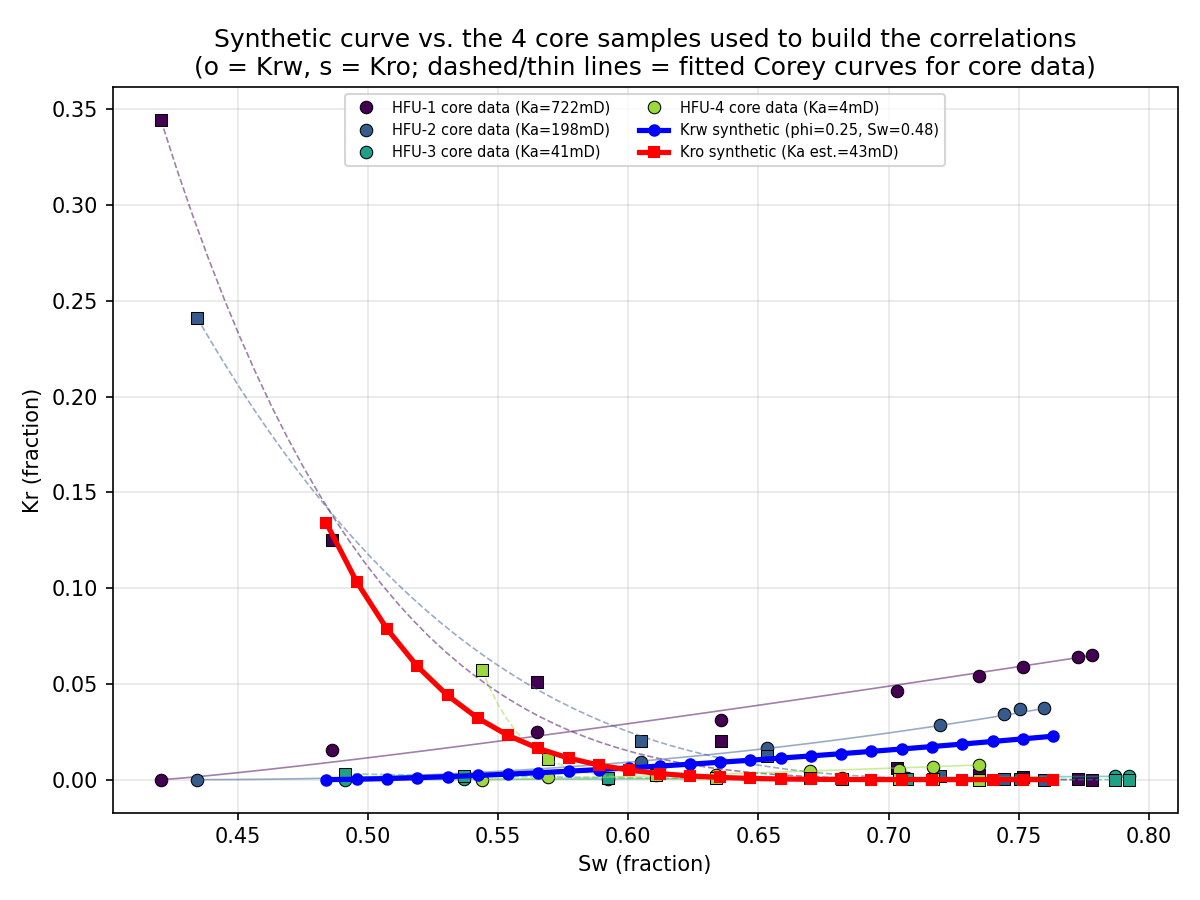
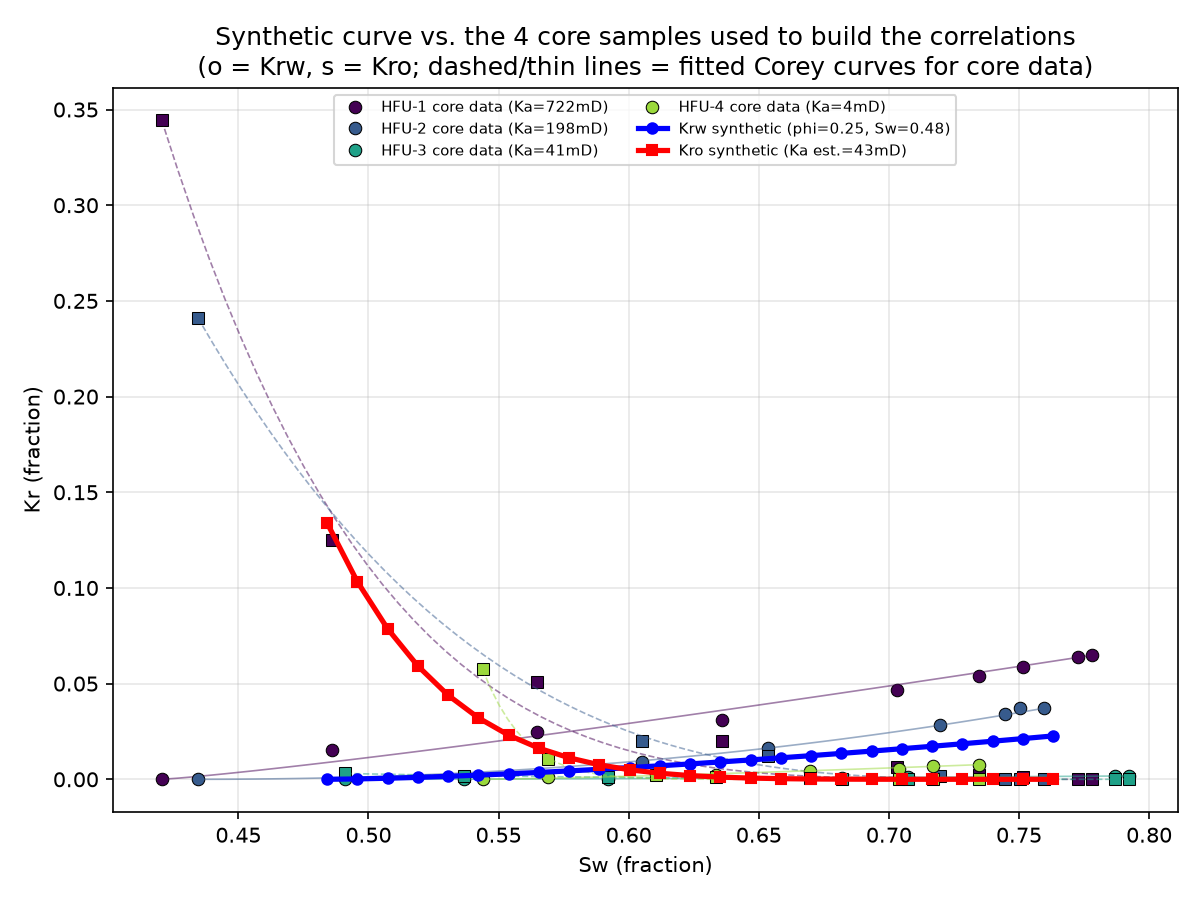
Changing input

diff --git a/src/synthetic_relperm_simple.py b/src/synthetic_relperm_simple.py
@@ -24,6 +24,7 @@ Method:
 No uncertainty bands - single deterministic curve, as requested.
 """
 
+import argparse
 import numpy as np
 from scipy.optimize import curve_fit
 import matplotlib.pyplot as plt
@@ -118,10 +119,30 @@ def generate_synthetic_relperm(phi, Sw, n_points=25):
 # ---------------------------------------------------------------------
 # Demo
 # ---------------------------------------------------------------------
-if __name__ == "__main__":
-    phi_input, Sw_input = 0.25, 0.48   # <-- replace with your log values
+DEFAULT_OUT = '/home/rianr/pypro/myvenv/reservoir_analysis/images/synthetic_relperm_simple.png'
 
-    Sw_grid, Krw, Kro, Ka_est, params = generate_synthetic_relperm(phi_input, Sw_input)
+def fraction(value):
+    """argparse type: float strictly between 0 and 1."""
+    v = float(value)
+    if not 0 < v < 1:
+        raise argparse.ArgumentTypeError(f"{value} must be a fraction between 0 and 1")
+    return v
+
+def parse_args():
+    ap = argparse.ArgumentParser(
+        description="Generate a synthetic Krw/Kro curve from log porosity and water saturation.")
+    ap.add_argument('--phi', type=fraction, required=True, help='porosity from log (fraction)')
+    ap.add_argument('--sw', type=fraction, required=True,
+                    help='water saturation from log (fraction), at/near irreducible')
+    ap.add_argument('--n-points', type=int, default=25, help='number of Sw grid points (default 25)')
+    ap.add_argument('--out', default=DEFAULT_OUT, help='output plot path')
+    return ap.parse_args()
+
+if __name__ == "__main__":
+    args = parse_args()
+    phi_input, Sw_input = args.phi, args.sw
+
+    Sw_grid, Krw, Kro, Ka_est, params = generate_synthetic_relperm(phi_input, Sw_input, args.n_points)
 
     print(f"Input: phi={phi_input}, Sw={Sw_input}")
     print(f"Estimated Ka: {Ka_est:.2f} mD")
@@ -157,5 +178,5 @@ if __name__ == "__main__":
     ax.legend(fontsize=7, loc='upper center', ncol=2)
     ax.grid(alpha=0.3)
     plt.tight_layout()
-    plt.savefig('/home/rian/python_project/myvenv/reservoir_analysis/images/synthetic_relperm_simple.png', dpi=150)
-    print("\nSaved plot to synthetic_relperm_simple.png")
+    plt.savefig(args.out, dpi=150)
+    print(f"\nSaved plot to {args.out}")
